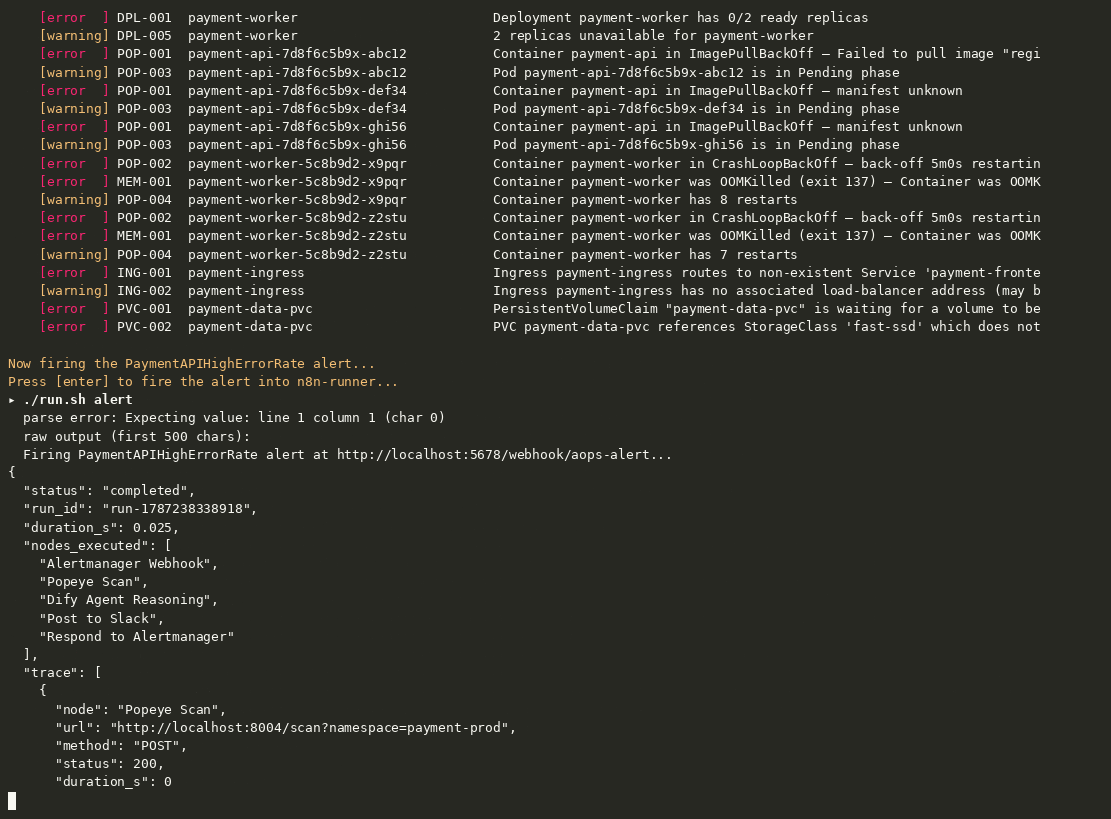
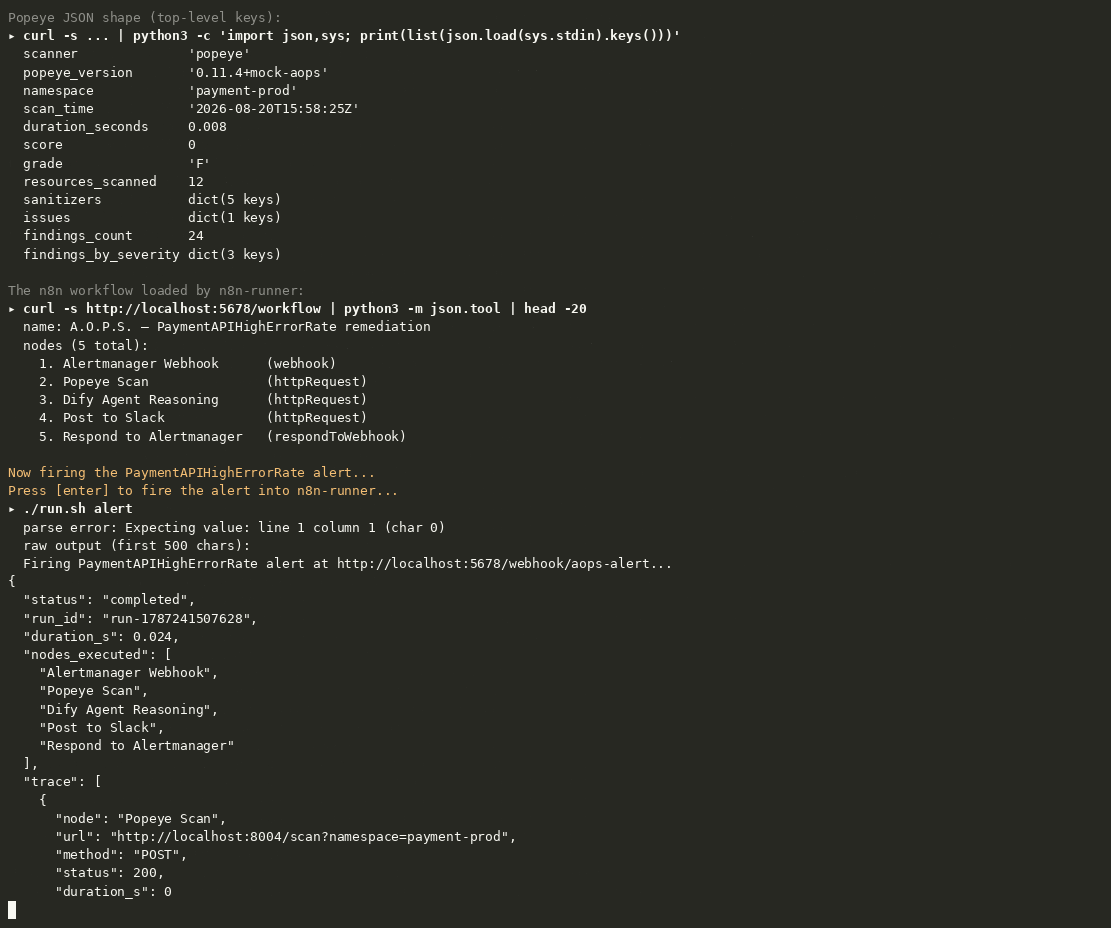
feat(demo): extend the gif from 9s to 25s
The previous 9.5s gif felt too fast — viewers couldn't read Popeye findings
or the remediation runbook before the screen scrolled past. New script
adds pacing and new content sections:

  - 'In this 25-second demo we will:' numbered agenda up front
  - dify-lite /healthz pretty-printed (shows backend selection)
  - pods summary with ImagePullBackOff / CrashLoopBackOff / OOMKilled reasons
  - PVC summary showing the missing storageClass
  - Popeye JSON top-level shape (sanitizers / issues / score / grade)
  - n8n-runner workflow node enumeration (5 nodes, types)
  - full workflow run response payload (run_id, trace, status)
  - Slack alert metadata (alert_name, score, grade, backend, duration)
  - FULL remediation runbook (was truncated to 50 lines)
  - 'RECAP: what just happened' numbered summary
  - outro with live landing-page URL + GitHub URL

Cast duration: 25.68s. GIF duration: 28.7s (36 frames, 1111x928, 2.1 MB).
Updated site/index.html references from '9s demo' to '25s demo'.
Regenerated aops-demo-poster.png at the 70% mark (Slack card section).

Changed region(s): [[0.0, 0.0, 0.9487, 0.9768], [0.8569, 0.0611, 0.8875, 0.0916]]

diff --git a/site/index.html b/site/index.html
@@ -361,7 +361,7 @@
     </p>
     <div class="hero-actions fade fade-4">
       <a class="btn btn-primary" href="#demo">
-        ▶ Watch the 9s demo
+        ▶ Watch the 25s demo
       </a>
       <a class="btn btn-secondary" href="https://github.com/adventurewave-labs/aops-sre-pipeline" target="_blank" rel="noopener">
         <svg class="github-icon" viewBox="0 0 16 16" fill="currentColor"><path d="M8 0C3.58 0 0 3.58 0 8c0 3.54 2.29 6.53 5.47 7.59.4.07.55-.17.55-.38v-1.34c-2.22.48-2.69-1.07-2.69-1.07-.36-.92-.89-1.17-.89-1.17-.73-.5.05-.49.05-.49.81.06 1.24.83 1.24.83.72 1.23 1.88.87 2.34.67.07-.52.28-.87.51-1.07-1.78-.2-3.64-.89-3.64-3.95 0-.87.31-1.59.82-2.15-.08-.2-.36-1.02.08-2.12 0 0 .67-.21 2.2.82.64-.18 1.32-.27 2-.27.68 0 1.36.09 2 .27 1.53-1.04 2.2-.82 2.2-.82.44 1.1.16 1.92.08 2.12.51.56.82 1.27.82 2.15 0 3.07-1.87 3.75-3.65 3.95.29.25.54.73.54 1.48v2.2c0 .21.15.46.55.38C13.71 14.53 16 11.54 16 8c0-4.42-3.58-8-8-8z"/></svg>
@@ -387,12 +387,12 @@
     <h2>Watch it fire</h2>
     <p class="lead">
       A Prometheus alert fires → n8n catches it → Popeye scans → Dify-lite reasons →
-      Slack gets the card. 9.5 seconds, real services, real HTTP.
+      Slack gets the card. 25 seconds, real services, real HTTP.
     </p>
     <div class="demo-frame">
       <div class="demo-bar">
         <span class="dot r"></span><span class="dot y"></span><span class="dot g"></span>
-        <span class="title">zsh — ./run.sh demo · 140×44</span>
+        <span class="title">zsh — ./run.sh demo · 140×50 · 25s</span>
       </div>
       <img src="aops-demo.gif" alt="A.O.P.S. pipeline demo" loading="lazy">
     </div>
